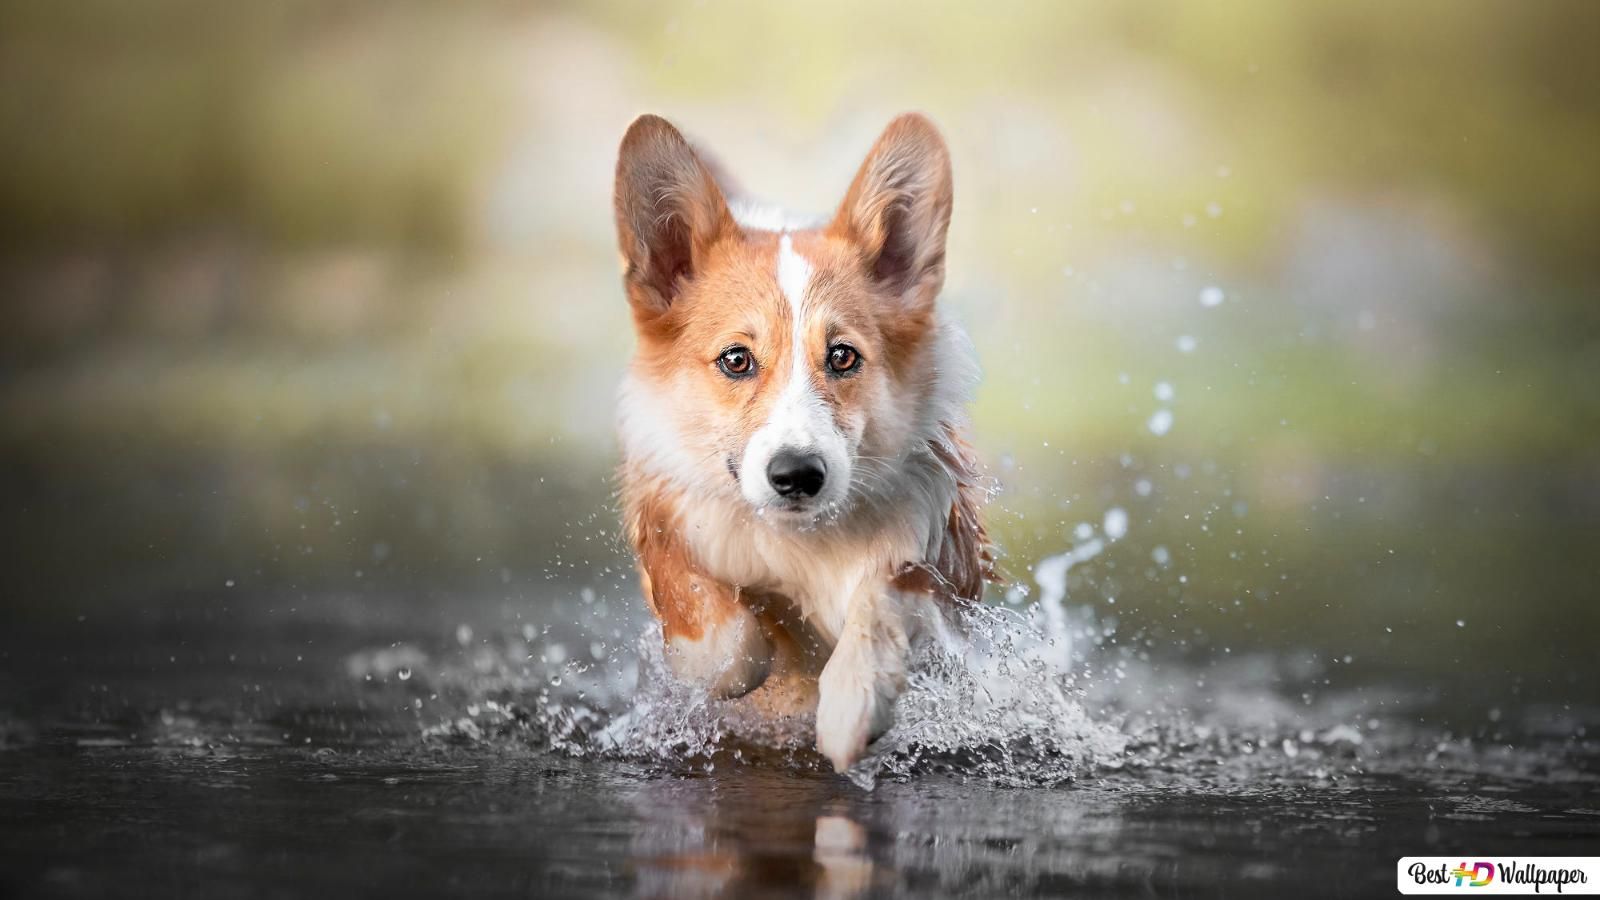
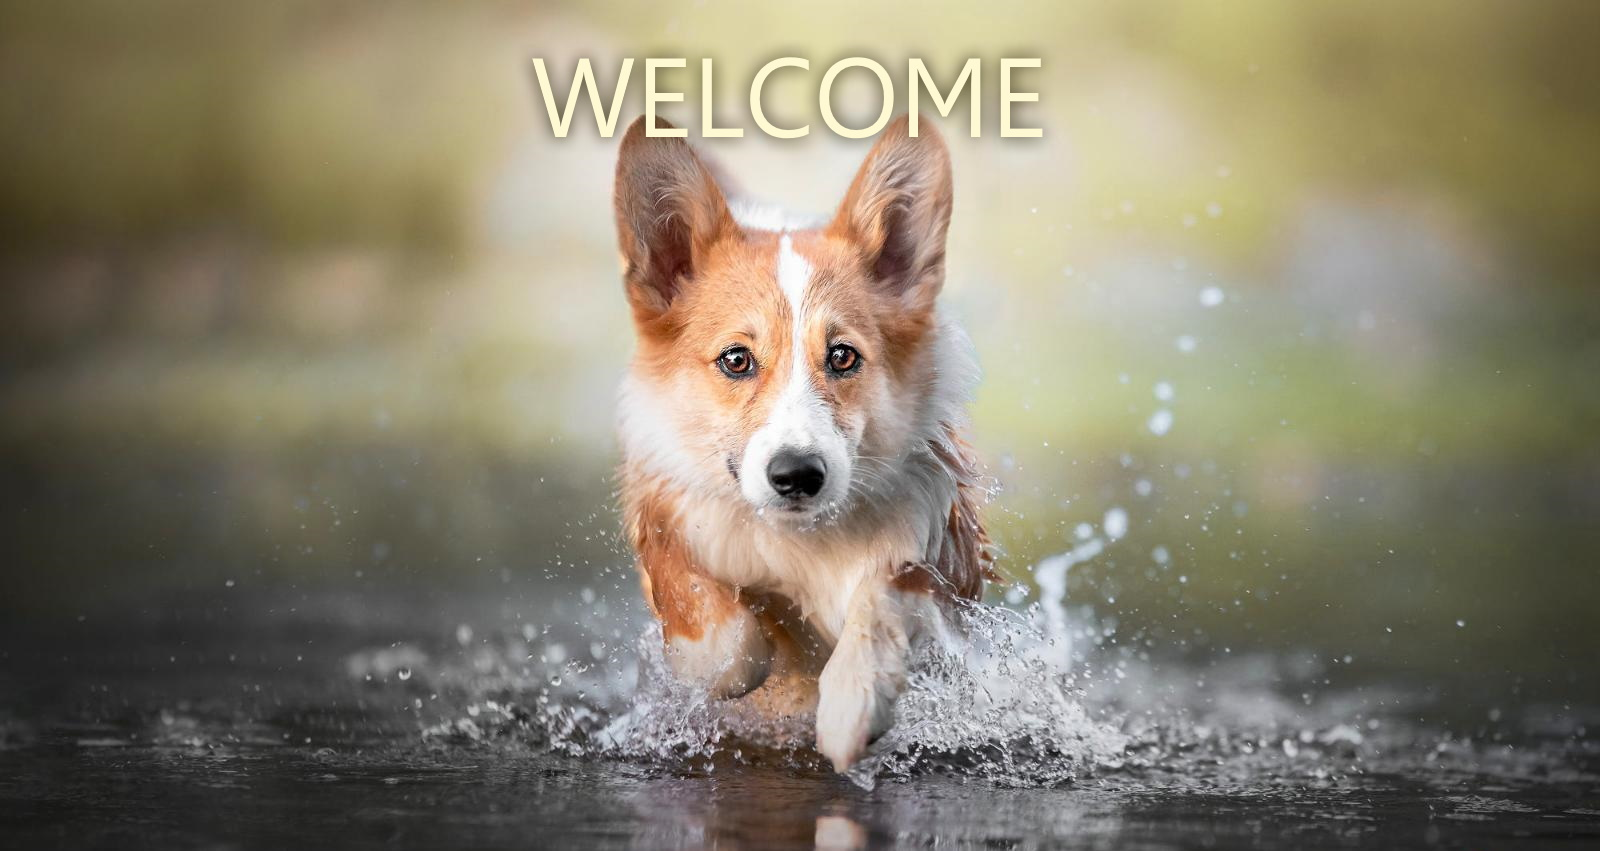
Front Minimum Requirements Finished

diff --git a/client/src/components/createBreed/createBreed.jsx b/client/src/components/createBreed/createBreed.jsx
@@ -74,7 +74,7 @@ export class CreateBreed extends Component {
     async create(e) {
         e.preventDefault();       
         let valError = validateFormInputs(this.state.breed, [
-            { param1: 'name', param2: 3, val: [ 'min-length' ]},
+            { param1: 'name', param2: 3, val: [ 'min-length', 'not-nums', 'not-symbols']},
             { param1: 'minHeight', val: [ 'empty' ]},
             { param1: 'minWeight', val: [ 'empty' ]},
             { param1: 'maxHeight', param2: 'minHeight', val: [ 'empty', 'higher' ]},
@@ -90,7 +90,7 @@ export class CreateBreed extends Component {
             }
         }
         if (!invalid) {
-            await this.props.createBreed(this.toBreedCte(this.state.breed))
+            this.props.createBreed(this.toBreedCte(this.state.breed))
             this.setState({
                 ...this.state,
                 created: true
@@ -128,7 +128,8 @@ export class CreateBreed extends Component {
                             <label> Min. Height </label>
                             <input 
                                 className='text-container'
-                                type="text" 
+                                type="number"
+                                min="0" 
                                 name='minHeight' 
                                 placeholder=' Breed estimated minimum height'
                                 onChange={ e => this.handleChange(e) }
@@ -141,7 +142,8 @@ export class CreateBreed extends Component {
                             <label> Max. Height </label>
                             <input 
                                 className='text-container'
-                                type="text" 
+                                type="number"
+                                min="0" 
                                 name='maxHeight' 
                                 placeholder=' Breed estimated maximum height'
                                 onChange={ e => this.handleChange(e) }
@@ -154,7 +156,8 @@ export class CreateBreed extends Component {
                             <label> Min. Weight </label>
                             <input 
                                 className='text-container'
-                                type="text" 
+                                type="number"
+                                min="0" 
                                 name='minWeight' 
                                 placeholder=' Breed estimated minimum weight'
                                 onChange={ e => this.handleChange(e) }
@@ -167,7 +170,8 @@ export class CreateBreed extends Component {
                             <label> Max. Weight </label>
                             <input 
                                 className='text-container'
-                                type="text" 
+                                type="number"
+                                min="0" 
                                 name='maxWeight' 
                                 placeholder=' Breed estimated maximum weight'
                                 onChange={ e => this.handleChange(e) }
@@ -180,7 +184,8 @@ export class CreateBreed extends Component {
                             <label> Maximum Age </label>
                             <input 
                                 className='text-container'
-                                type="text" 
+                                type="number"
+                                min="0" 
                                 name='maxAge' 
                                 placeholder=' Breed estimated maximum age'
                                 onChange={ e => this.handleChange(e) }

diff --git a/client/src/components/createBreed/form-validations.js b/client/src/components/createBreed/form-validations.js
@@ -17,10 +17,20 @@ function lesserThan(data1, data2) {
     return 'Field must be lesser than its minimum input';
 }
 
-function minLength (data, minLength) {
+function minLength(data, minLength) {
     if (typeof(data) === 'undefined') data = 0;
     if ( data.length >= minLength ) return '';
     return `Field must contain at least ${minLength} characters`;
+}
+
+function notNums(data) {
+    if ( data.match(/[0-9]/) === null ) return '';
+    return "Field cannot contain numbers";
+}
+
+function notSymbols(data) {
+    if ( data.match(/\W/) === null ) return '';
+    return "Field cannot contain symbols"; 
 }
 
 export function validateFormInputs(state, validations) {
@@ -29,10 +39,14 @@ export function validateFormInputs(state, validations) {
         validations.forEach(elem => {
             if (elem.val !== 0) {
                 elem.val.forEach(val => {
-                    if (val === 'empty') error[elem.param1] = empty(state[elem.param1]);
-                    if (val === 'higher') error[elem.param1] = higherThan(state[elem.param1], state[elem.param2]);
-                    if (val === 'lesser') error[elem.param1] = lesserThan(state[elem.param1], state[elem.param2]);
-                    if (val === 'min-length') error[elem.param1] = minLength(state[elem.param1], elem.param2);
+                    if ( !(error.hasOwnProperty( elem.param1 ) && error[elem.param1] !== '') ) {
+                        if (val === 'empty') error[elem.param1] = empty(state[elem.param1]);
+                        if (val === 'higher') error[elem.param1] = higherThan(state[elem.param1], state[elem.param2]);
+                        if (val === 'lesser') error[elem.param1] = lesserThan(state[elem.param1], state[elem.param2]);
+                        if (val === 'min-length') error[elem.param1] = minLength(state[elem.param1], elem.param2);
+                        if (val === 'not-nums') error[elem.param1] = notNums(state[elem.param1]);
+                        if (val === 'not-symbols') error[elem.param1] = notSymbols(state[elem.param1]);
+                    }
                 });
             }
         });

diff --git a/client/src/components/breedList/breedList.jsx b/client/src/components/breedList/breedList.jsx
@@ -2,7 +2,7 @@ import './breedList.css';
 import { Component } from 'react';
 import { connect } from 'react-redux';
 import { BreedCard } from '../breed/breed';
-import { getBreedDetail } from '../../actions';
+// import { getBreedDetail } from '../../actions';
 import searchIcon from '../../imgs/search-icon.png';
 
 export class BreedList extends Component {
@@ -69,6 +69,7 @@ export class BreedList extends Component {
                                 weight = { breed.weight }
                                 temper = { temper }
                                 ext = { breed.external }
+                                imgUrl = { breed.imgUrl }
                             />
                         )
                     })}
@@ -97,7 +98,7 @@ function mapStateToProps(state) {
 
 function mapDispatchToProps(dispatch) {
     return {
-        getBreedDetail: breedName => dispatch(getBreedDetail(breedName))
+        // getBreedDetail: breedName => dispatch(getBreedDetail(breedName))
     }
 };
 

diff --git a/client/src/components/nav-bar/nav-bar.css b/client/src/components/nav-bar/nav-bar.css
@@ -1,7 +1,7 @@
 .nav-bar {
-    height: 45px;
+    height: 50px;
     width: 100%;
-    background-color: rgba(0, 0, 0, 0.664);
+    background-color: rgba(0, 0, 0, 0.733);
     
 }
 
@@ -9,14 +9,16 @@
     height: 100%;
     display: flex;
     align-items: center;
-    margin-left: 20px;
+    margin-left: 10px;
+    flex-direction: row;
 }
 
 .linkText {
     /* border: 1px solid black; */
-    height: fit-content;
+    height: 50%;
     margin-left: 10px;
-    margin-top: 10%;
+    margin-right: 10px;
+    margin-top: 12px;
     padding: 0;
     font-size: large;
     font-family:'Trebuchet MS', 'Lucida Sans Unicode', 'Lucida Grande', 'Lucida Sans', Arial, sans-serif;
@@ -25,12 +27,14 @@
 }
 
 .nav-link {
+    /* border: 1px solid black; */
     height: 100%;
-    width: 100px;
-    margin: 0;
+    width: fit-content;
+    /* margin-right: 10px; */
     padding: 0;
     border-left: 1px solid grey;
     text-decoration: none;
+
 }
 
 .nav-link:hover {

diff --git a/client/src/App.js b/client/src/App.js
@@ -1,7 +1,7 @@
 import './App.css';
 import React from 'react';
 import { Route } from 'react-router-dom';
-import Login from './components/login/login';
+import Welcome from './components/welcome/welcome';
 import Home from './components/home/home'
 import BreedDetail from './components/breed-detail/breed-detail';
 import CreateBreed from './components/createBreed/createBreed';
@@ -14,7 +14,7 @@ function App() {
       <Route path="/breeds/:id" component={ BreedDetail }/>
       <Route exact path="/breeds" component={Home} />
       <Route exact path="/create-breed" component={ CreateBreed }/>
-      <Route exact path="/" component={ Login } />
+      <Route exact path="/" component={ Welcome } />
     </React.Fragment>
   );
 }

diff --git a/client/src/components/breed/breed.jsx b/client/src/components/breed/breed.jsx
@@ -6,10 +6,11 @@ import { Link } from 'react-router-dom';
 
 export class BreedCard extends Component {
     render() {
-        const { id, breed, weight, temper, ext } = this.props
+        const { id, breed, weight, temper, ext, imgUrl } = this.props
         return (
             <Link to={`/breeds/${id}?ext=${ext}`} className='breed-link'>
-                <div className='breedContainer'>
+                <img className="breed-img" src={imgUrl} />
+                <div className='breed-container'>
                     Name: {breed} |
                     Weight: {weight} <br />
                     Temper: {temper}

diff --git a/client/src/components/nav-bar/nav-bar.jsx b/client/src/components/nav-bar/nav-bar.jsx
@@ -9,6 +9,7 @@ export default class NavBar extends Component {
             <div className='nav-bar'>
                 <div className='link-container'>
                     <Link to='/breeds' className='nav-link'> <p className='linkText'>Breeds</p></Link>
+                    <Link to='/temperaments' className='nav-link'> <p className='linkText'>Temperaments</p></Link>
                     <Link to='/create-breed' className='nav-link'> <p className='linkText'>Create</p></Link>
                 </div>
             </div>

diff --git a/client/src/actions/index.js b/client/src/actions/index.js
@@ -29,7 +29,7 @@ export function getBreedsByName( breedName, options ) {
         if (getData) url += `&getData=${getData}`;
     }
     return function(dispatch) {
-        // ESTO ES PARA ANULAR LA SOLICITUD QUE SE HACE CON CADA TYPEO EN LA BARRA DE BUSQUEDA
+        // ESTO ES PARA ANULAR LA SOLICITUD QUE SE HACE CON CADA TiPEO EN LA BARRA DE BUSQUEDA
         // if ( target === 'form' ) {
             return fetch(url, { method: 'GET' })
                 .then( data => data.json())

diff --git a/client/src/components/welcome/welcome.jsx b/client/src/components/welcome/welcome.jsx
@@ -1,0 +1,17 @@
+import './welcome.css';
+import { Component } from "react";
+import { Link } from 'react-router-dom';
+import login_1 from '../../imgs/login_1.jpg';
+import login_2 from '../../imgs/login_2.jpg';
+
+
+export default class Welcome extends Component {
+    
+    render() {
+        return (
+            <img src={login_2} className="background-img" alt="login_1" />
+        )
+    }
+}
+
+

diff --git a/client/src/components/breed/breed.css b/client/src/components/breed/breed.css
@@ -1,4 +1,4 @@
-.breedContainer {
+.breed-container {
     border-bottom: 1px solid grey;
     width: 100%;
     height: 50px;
@@ -14,4 +14,8 @@
 .breed-link {
     text-decoration: none;
     color: black;
+}
+
+.breed-img {
+    height: 50px;
 }

diff --git a/client/src/App.css b/client/src/App.css
@@ -1,5 +1,5 @@
 body {
-  background-color: rgb(255, 194, 124);
+  background-color: rgb(201, 201, 201);
 }
 
 .App {

diff --git a/client/src/components/welcome/welcome.css b/client/src/components/welcome/welcome.css
@@ -1,0 +1,5 @@
+.background-img {
+    width: 85%;
+    margin: 0 7.5%;
+} 
+
